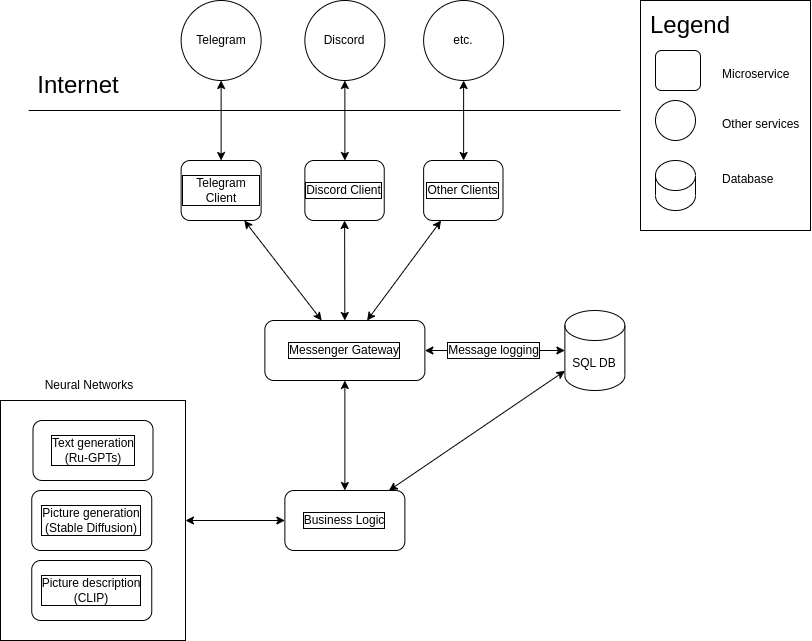
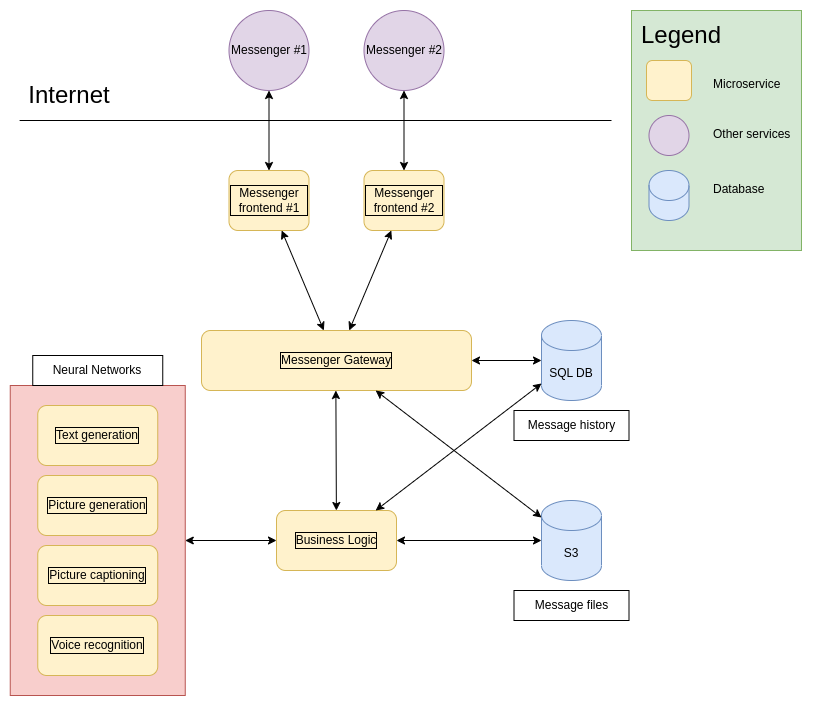
Swagger descriptions and updated architecture overview

diff --git a/README.md b/README.md
@@ -8,3 +8,7 @@
 ## Projects
 
 * [Neural network microservices](https://github.com/Kepler-Br/momiji-bot-neural-networks-services)
+* [Frontend implementation for Telegram](https://github.com/Kepler-Br/omega-momiji-telegram-frontend)
+  * [swagger](swagger/frontend-contract.yaml)
+* [Messenger Gateway](https://github.com/Kepler-Br/omega-momiji-messenger-gateway)
+  * [swagger](swagger/gateway-contract.yaml)
